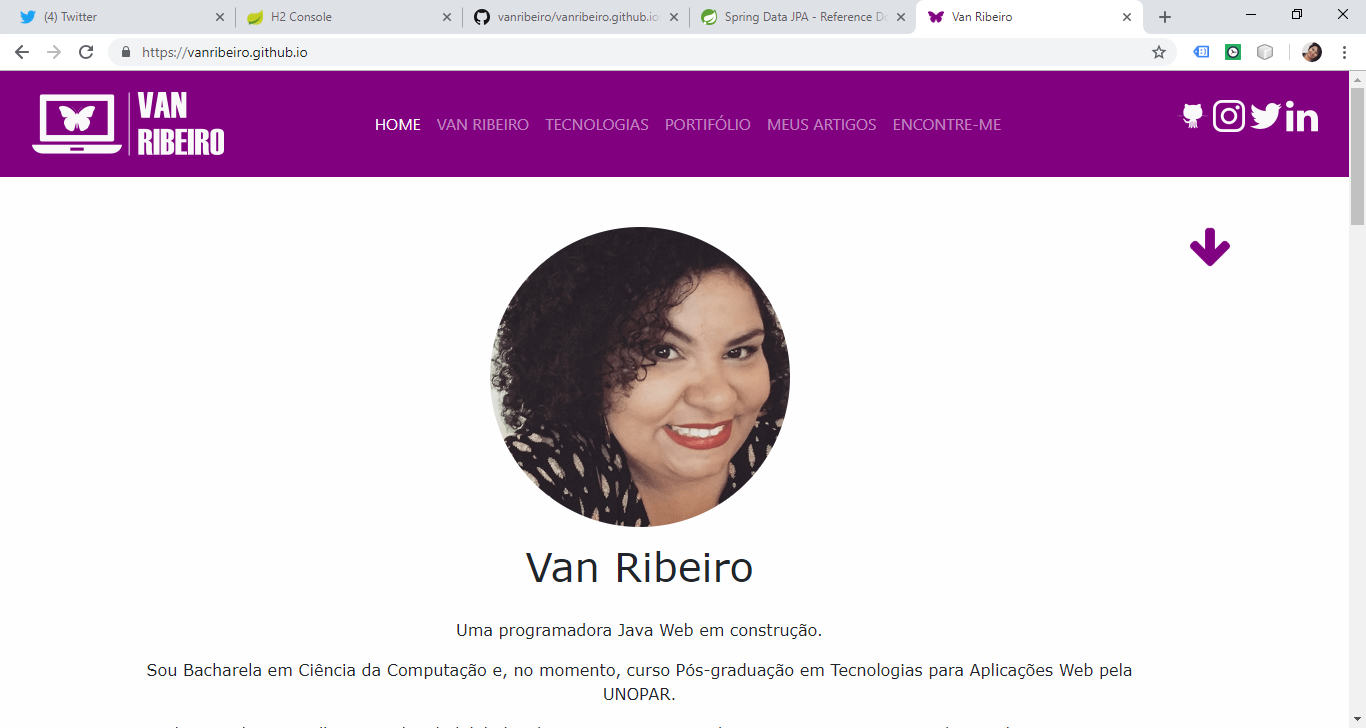
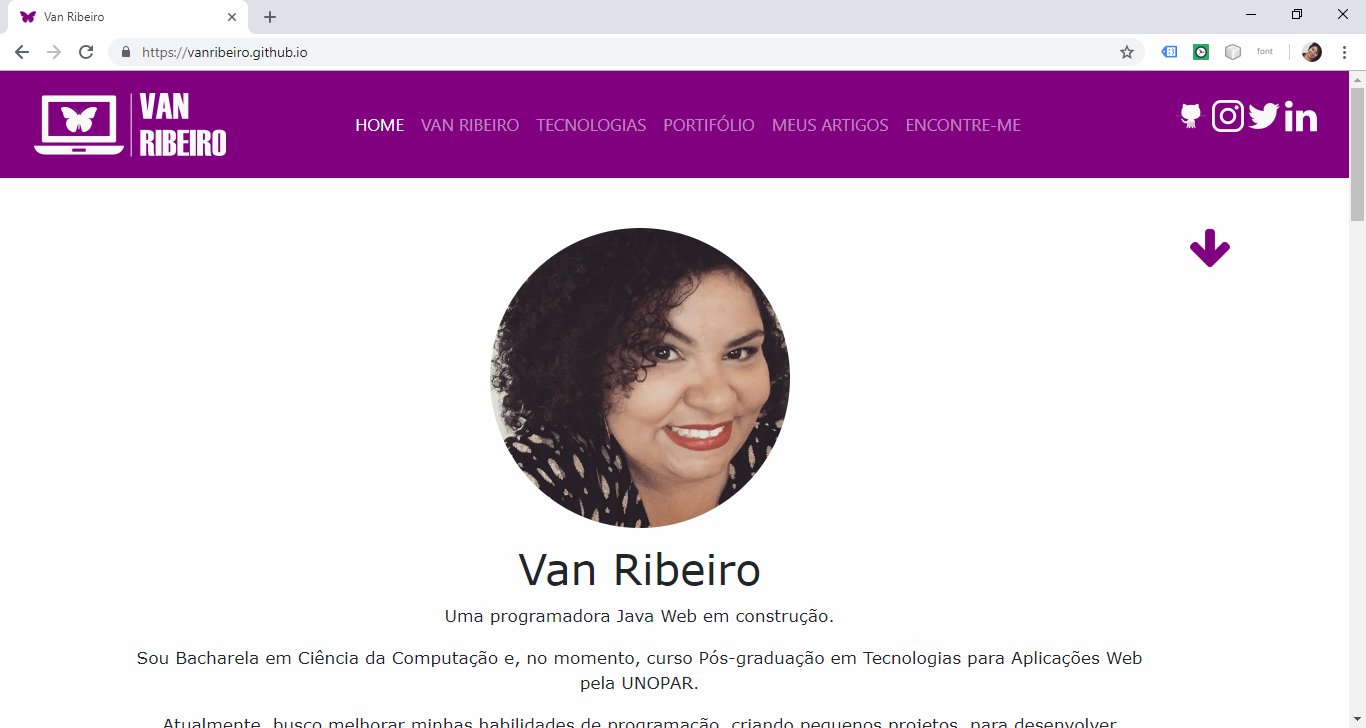
Modificações e melhorias.

diff --git a/index.html b/index.html
@@ -53,16 +53,19 @@
                <div id="socialmidia" class="justify-content-center">       
                     <ul>
                         <li>
-                            <a href="https://github.com/vanribeiro"><img src="imagens/icones/RedesSociais/Claro/github.png"/></a>
+                            <a href="https://github.com/vanribeiro"><img src="imagens/icones/RedesSociais/Claro/github.png" alt="GitHub"/></a>
                         </li>
                         <li>
-                            <a href="https://www.instagram.com/vanribeiro.dev/"><img src="imagens/icones/RedesSociais/Claro/instagram.png" /></a>
+                                <a href="https://codepen.io/vanribeiro/"><img src="imagens/icones/RedesSociais/Claro/codepen.png" alt="Code Pen"></a>
                         </li>
                         <li>
-                            <a href="https://twitter.com/euvanribeiro"><img src="imagens/icones/RedesSociais/Claro/twitter.png" /></a>
+                            <a href="https://www.instagram.com/vanribeiro.dev/"><img src="imagens/icones/RedesSociais/Claro/instagram.png" alt="Instagram" /></a>
                         </li>
                         <li>
-                            <a href="https://www.linkedin.com/in/vanribeiro/"><img src="imagens/icones/RedesSociais/Claro/linkedin.png" /></a>
+                            <a href="https://twitter.com/euvanribeiro"><img src="imagens/icones/RedesSociais/Claro/twitter.png" alt="Twitter"/></a>
+                        </li>
+                        <li>
+                            <a href="https://www.linkedin.com/in/vanribeiro/"><img src="imagens/icones/RedesSociais/Claro/linkedin.png"  alt="Twitter"/></a>
                         </li>
                         </ul>
                 </div>
@@ -77,7 +80,7 @@
                 </div>
             </div>
             <div class="container">
-                <div class="row" id="myBio" align="center">
+                <div class="row text-on-center" id="myBio">
                     <div class="col-sm-12">
                         <img src="imagens/foto_de_perfil/Eu_300x300.png" class="img-fluid rounded-circle"/>
                         <h1>Van Ribeiro</h1>
@@ -89,7 +92,6 @@
                         <p>Também busco uma colocação no mercado de trabalho. E, compartilho aqui, meu interesse em atuar com desenvolvimento de sistemas para web, entretanto estou aberta para propostas e oportunidades em outras áreas correlatas a Tecnologia da Informação.</p>
                         
                         <p>Também leitora, blogueira, quando está inspirada, e futura escritora.</p>
-                        <p>Sim! Esse site está em construção e mostra que tenho muito o que aprender ainda.</p>
                     </div>
                 </div>
             </div>
@@ -100,10 +102,10 @@
                 </div>
             </div>
             <div class="container">
-            <div class="row" id="technologies" align="center">
+            <div class="row text-on-center" id="technologies">
                 <div class="col-sm-12">
                     <h1>TECNOLOGIAS</h1>
-                    <p class="subtitle">algumas tecnologias que procuro utilizar</p>
+                    <p class="subtitle">algumas tecnologias que utilizo</p>
                     <div class="row">
                         <figure class="col">
                             <img class="img-fluid" alt="Java" src="imagens/logo/java.png" />
@@ -160,14 +162,14 @@
                 </div>
             </div>
             <div class="container">
-            <div class="row" id="portfolio" align="center">
+            <div class="row text-on-center" id="portfolio">
                 <div class="col-sm-12">
                     <h1>PORTFOLIO</h1>
-                    <p class="subtitle">em constante construção</p>
+                    <p class="subtitle">trabalhos realizados<br><small>(seção sempre em construção!)</small></br></p>
                     <div class="row">
                         <figure class="col-sm-4">
                             <a href="https://github.com/vanribeiro/ProcessandoDadosDaFIFA2017">
-                            <img class="img-fluid" alt="HTML5" src="imagens/portfolio/futebol.jpeg">
+                            <img class="img-fluid box-shadow" alt="Processando grandes quantidades de dados" src="imagens/portfolio/futebol.jpeg">
                             </a>
                             <figcaption>
                                 <h4>
@@ -179,7 +181,7 @@
                         </figure>
                         <figure class="col-sm-4">
                             <a href="https://github.com/vanribeiro/vanribeiro.github.io">
-                            <img class="img-fluid" alt="HTML5" src="imagens/portfolio/MeuSite.PNG">
+                            <img class="img-fluid box-shadow" alt="Site Portfolio" src="imagens/portfolio/MeuSite.PNG">
                             </a>
                             <figcaption>
                                 <h4>
@@ -192,7 +194,7 @@
                         </figure>
                         <figure class="col-sm-4">
                             <a href="https://github.com/vanribeiro/GeradorDeFrasesAleatoria">
-                            <img class="img-fluid" alt="API" src="imagens/portfolio/quotes.jpeg">
+                            <img class="img-fluid box-shadow" alt="API" src="imagens/portfolio/quotes.jpeg">
                             </a>
                             <figcaption>
                                 <h4>
@@ -206,6 +208,11 @@
                     </div>
                 </div>
                 </div>
+                <div class="row text-on-center">
+                    <div class="col-sm-12">
+                        <a class="highlight-text" href="portfolio.html">Ver todos os trabalhos >>></a>
+                    </div>
+                </div>
             </div>
 <!--ARTICLES-------------------------------------------------------------------------------->               <div class="container">
                 <div class="arrow border-top">
@@ -213,22 +220,22 @@
                 </div>
             </div>
             <div class="container">
-            <div class="row" id="myArticles" align="center">
+            <div class="row text-on-center" id="myArticles">
                 <div class="col-sm-12">
                     <h1>ARTIGOS</h1>
                     <p class="mySubtitle">meus posts sobre programação</p>
                     <div class="row">
                         <figure class="col-sm-6">
                             <a href="https://medium.com/@vanribeiro.dev/formata%C3%A7%C3%A3o-de-moedas-com-java-d2f9e617ad56">
-                                <img src="imagens/artigos/convers%C3%A3o-de-moedas.jpeg" class="img-fluid"/>
+                                <img src="imagens/artigos/convers%C3%A3o-de-moedas.jpeg" class="img-fluid box-shadow"/>
                             </a>
                             <figcaption>
                                 <a href="https://medium.com/@vanribeiro.dev/formata%C3%A7%C3%A3o-de-moedas-com-java-d2f9e617ad56">
                                 <h3>Formatação de Moedas com Java</h3>
                                 </a>
                                 <p>
-                                    Há alguns dias atrás, resolvi um desafio/problema sobre formatação de moedas de diferentes nacionalidades. Então decidi escrever um post sobre isso...
-                                        <a href="https://medium.com/@vanribeiro.dev/formata%C3%A7%C3%A3o-de-moedas-com-java-d2f9e617ad56"> >>>Leia mais!</a>
+                                    Há alguns dias atrás, resolvi um desafio/problema sobre formatação de moedas de diferentes nacionalidades. Então decidi escrever um post sobre isso... 
+                                    <a href="https://medium.com/@vanribeiro.dev/formata%C3%A7%C3%A3o-de-moedas-com-java-d2f9e617ad56">  >>>Leia mais!</a>
                                 </p>
                             </figcaption>
                         </figure>
@@ -240,7 +247,7 @@
                 <div class="arrow float-right">
                     <a href="#navarrow">Menu <img src="imagens/icones/Setas/arrow-up.png"/></a>
                 </div>
-                <div class="navarrow" align="center">
+                <div class="navarrow text-on-center">
                     <a href="#navarrow">Menu <img src="imagens/icones/Setas/arrow-up.png"/></a>
                 </div>
             </div>
@@ -249,24 +256,27 @@
         <footer class="col-sm-12">
             <div class="container border-top">
             <div class="row" id="contactMe">
-            <div class="col" align="center">
+            <div class="col text-on-center">
                 <h1>ENCONTRE-ME!</h1>
                 <div id="socialmediafooter">
                     <p>
-                        <a href="https://github.com/vanribeiro"><img src="imagens/icones/RedesSociais/Escuro/github.png"/></a>
+                        <a href="https://github.com/vanribeiro"><img src="imagens/icones/RedesSociais/Escuro/github.png"/ alt="GitHub"></a>
                     </p>
                     <p>
-                        <a href="https://www.instagram.com/vanribeiro.dev/"><img src="imagens/icones/RedesSociais/Escuro/instagram.png" /></a>
+                        <a href="https://codepen.io/vanribeiro/"><img src="imagens/icones/RedesSociais/Escuro/codepen.png" alt="Code Pen"></a>
                     </p>
                     <p>
-                        <a href="https://twitter.com/euvanribeiro"><img src="imagens/icones/RedesSociais/Escuro/twitter.png" /></a>
+                        <a href="https://www.instagram.com/vanribeiro.dev/"><img src="imagens/icones/RedesSociais/Escuro/instagram.png" alt="Instagram"/></a>
                     </p>
                     <p>
-                        <a href="https://www.linkedin.com/in/vanribeiro/"><img src="imagens/icones/RedesSociais/Escuro/linkedin.png" /></a>
+                        <a href="https://twitter.com/euvanribeiro"><img src="imagens/icones/RedesSociais/Escuro/twitter.png" alt="Twitter" /></a>
+                    </p>
+                    <p>
+                        <a href="https://www.linkedin.com/in/vanribeiro/"><img src="imagens/icones/RedesSociais/Escuro/linkedin.png" alt="LinkedIn"/></a>
                     </p>
                 </div>
                 <p>
-                    <img class="imgEmail" src="imagens/icones/RedesSociais/Escuro/envelope.png" />  vanribeiro.dev@gmail.com
+                    <img class="imgEmail" src="imagens/icones/RedesSociais/Escuro/envelope.png" alt="E-mail"/>  vanribeiro.dev@gmail.com
                 </p>
                 <p class="copyritght">© 2018 Van Ribeiro. Todos os direitos reservados.</p>
                 <p class="copyritght">Desenvolvido por Vanessa Ribeiro.</p>
@@ -278,7 +288,6 @@
         <script src="https://code.jquery.com/jquery-3.3.1.slim.min.js" integrity="sha384-q8i/X+965DzO0rT7abK41JStQIAqVgRVzpbzo5smXKp4YfRvH+8abtTE1Pi6jizo" crossorigin="anonymous"></script>
         <script src="https://cdnjs.cloudflare.com/ajax/libs/popper.js/1.14.3/umd/popper.min.js" integrity="sha384-ZMP7rVo3mIykV+2+9J3UJ46jBk0WLaUAdn689aCwoqbBJiSnjAK/l8WvCWPIPm49" crossorigin="anonymous"></script>
         <script src="https://stackpath.bootstrapcdn.com/bootstrap/4.1.3/js/bootstrap.min.js" integrity="sha384-ChfqqxuZUCnJSK3+MXmPNIyE6ZbWh2IMqE241rYiqJxyMiZ6OW/JmZQ5stwEULTy" crossorigin="anonymous"></script>
-        <script src="javascript/app.js"></script>
     </body>
     
 </html>

diff --git a/css/estilo.css b/css/estilo.css
@@ -23,6 +23,61 @@ main .container{
     margin-bottom: 50px;
 }
 
+.text-on-center{
+    text-align: center;
+}
+
+.bold{
+    font-weight: bold;
+}
+
+.purple-border-strong{
+    border-top: #800080 2px solid;
+}
+
+.purple-border-light{
+    border-top: #80008077 1px solid;
+    padding-top: 10px;
+}
+
+.examples-code-page-backend span{
+    padding: 10px;
+}
+
+.examples-code-pages-frontend{
+    display: flex;
+    align-items: center;
+    justify-content: center;
+}
+
+.examples-code-page-backend img, .examples-code-pages-frontend img{
+    width: 40px;
+    height: 40px;
+}
+
+.highlight-text{
+    padding: 10px;
+    background: #800080;
+    color: #fefefe;
+    word-wrap: break-word;
+}
+
+.highlight-text:hover{
+    padding: 10px;
+    background: #fefefe;
+    color: #800080;
+    word-wrap: break-word;
+}
+
+.box-shadow{
+    box-shadow: #212529 5px 5px 30px;
+}
+
+figcaption{
+    padding-top: 15px;
+    padding-bottom: 15px;
+}
+
 #socialmidia img, #contactMe img{
     width: 32px;
     height: 32px;
